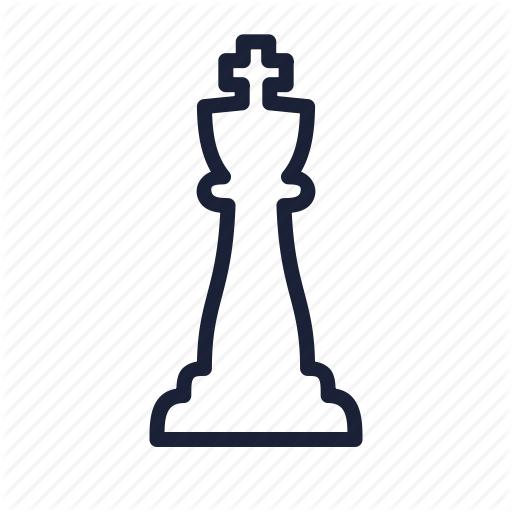
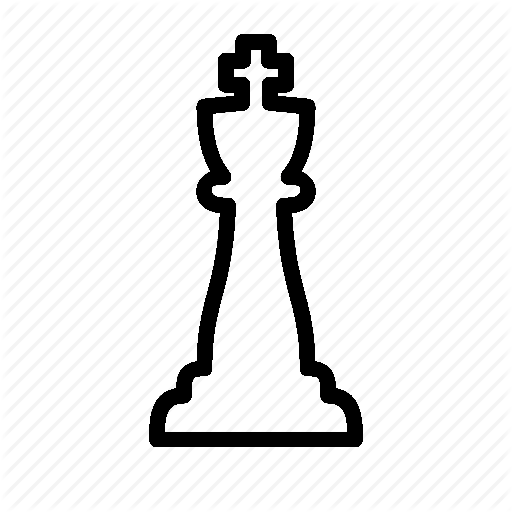
2nd Commit (from home)

Changed region(s): [[0.2812, 0.0625, 0.7188, 0.875]]

diff --git a/Graphical Chess/src/PlayChess.java b/Graphical Chess/src/PlayChess.java
@@ -1,12 +1,14 @@
 import java.awt.*;
-import java.awt.image.BufferedImage;
-import java.io.IOException;
-import java.net.URL;
-import java.io.File;
-import javax.imageio.ImageIO;
+
+//import java.awt.image.BufferedImage;
+//import java.io.IOException;
+//import java.net.URL;
+//import java.io.File;
+//import javax.imageio.ImageIO;
 import javax.swing.*;
-import java.util.Scanner;
-public class PlayChess extends Canvas
+//import java.util.Scanner;
+
+public class PlayChess extends JFrame
 	{
 		static int className;
 		static JFrame frame = new JFrame();
@@ -16,32 +18,42 @@ public class PlayChess extends Canvas
 		static int color2 = 1;
 		static String name1;
 		static String name2;
+		static boolean stillPlaying = true;
+		static ImageIcon king;
 
 		
 		public static void main(String[] args)
 			{
-				PlayChess canvas = new PlayChess();
+//				PlayChess canvas = new PlayChess();
 		        JFrame frame = new JFrame();
-		        ImageIcon king = new ImageIcon("King3.png");
-		        JLabel label = new JLabel(king);
-		        frame.add(label);
 		        frame.pack();
 		        frame.setSize(800, 800);
 		        frame.setDefaultCloseOperation(JFrame.EXIT_ON_CLOSE);
-		        frame.getContentPane().add(canvas).setBackground(Color.white);
-		        frame.setLocationRelativeTo(null); //Sets JPanel to center of screen 
+		        frame.setLayout(null);
+		        frame.getContentPane().setBackground(Color.YELLOW);
+		        frame.setLocationRelativeTo(null);; //Sets JPanel to center of screen 
 		        frame.setResizable(true);
 		        frame.setVisible(true);
 		        
-		        
-		        graphicallyGreetPlayer();
+		        showCurrentBoard();
+		        greetPlayer();
 		        ChessPieceDatabase.loadData();
+//		        while(stillPlaying)
+//		        {
+//		        	showCurrentBoard();
+//		        }
 			}
 
-		private static void graphicallyGreetPlayer()
+		private static void greetPlayer()
 			{
+				final JFrame frame = new JFrame();
+				JOptionPane.showMessageDialog(frame, "Welcome to the Game of Chess!!");
 				name1 = JOptionPane.showInputDialog("Player 1, what is your name?");
-				if(name1.length() == 1)
+				if(name1.isEmpty())
+				{
+					cancelGame();
+				}
+				else if(name1.length() == 1)
 					{
 						name1.substring(0).toUpperCase();
 					}
@@ -51,7 +63,11 @@ public class PlayChess extends Canvas
 					}
 				JOptionPane.showMessageDialog(frame, "Welcome to chess, " + name1 + "!");
 				name2 = JOptionPane.showInputDialog("Player 2, what is your name?");
-				if(name2.length() == 1)
+				if(name2.isEmpty())
+				{
+					cancelGame();
+				}
+				else if(name2.length() == 1)
 					{
 						name2.substring(0).toUpperCase();
 					}
@@ -61,18 +77,20 @@ public class PlayChess extends Canvas
 					}
 				JOptionPane.showMessageDialog(frame, "Welcome to chess, " + name2 + "!");
 				
-				final String[] colorOptions = {"Black", "White" };
-				final JFrame frame = new JFrame();
+				final String[] colorOptions = {"Black", "White", "Cancel"};
 			    String colorType = (String) JOptionPane.showInputDialog(
 			    		frame, 
-			            name1 + " , Which color chess pieces would you like to use?",
+			            name1 + ", which color chess pieces would you like to use?",
 			            "Which color?",
 			            JOptionPane.QUESTION_MESSAGE,
 			            null, 
 			            colorOptions, 
 			            colorOptions[0]);
-			    JOptionPane.showMessageDialog(frame, "Player 1, " + name1 + ", you will start first. Are you ready to play?");
-			    if(colorType.equals("White"))
+			    if(colorType.equals("Cancel"))
+			    {
+			    	cancelGame();
+			    }
+			    else if(colorType.equals("White"))
 			    	{
 			    		color1 = 0;
 			    		color2 = 1;
@@ -82,32 +100,41 @@ public class PlayChess extends Canvas
 			    		color1 = 1;
 			    		color2 = 0;
 			    	}
+			    if (JOptionPane.showConfirmDialog(frame, name1 + ", you will start first. Are you ready to play?", "Confirm", JOptionPane.YES_NO_OPTION) == JOptionPane.NO_OPTION)
+			    {
+			    	cancelGame();
+			    }
 			}
+		
+		public static void showCurrentBoard()
+		{
+			king = new ImageIcon(new ImageIcon("KingBW.png").getImage().getScaledInstance(80, 80, Image.SCALE_AREA_AVERAGING));
+			JLabel label = new JLabel(king);
+			frame.add(label);
+			Dimension size = label.getPreferredSize();
+			label.setBounds(100, 100, size.width, size.height);
+		}
 		
 		public void paint(Graphics graphics)
 		{
-			graphics.setColor(new Color(0,255,0));
-//			graphics
-	        ImageIcon king = new ImageIcon("King.png");
-	        
+			
 		}
 		
-		public BufferedImage scaleImage(int WIDTH, int HEIGHT, String filename)
+//		public static Image getScaledImage(Image srcImg, int w, int h)
+//		{
+//			BufferedImage resizedImg = new BufferedImage(w, h, BufferedImage.TYPE_INT_ARGB);
+//			Graphics2D g2 = resizedImg.createGraphics();
+//			
+//			g2.setRenderingHint(RenderingHints.KEY_INTERPOLATION, RenderingHints.VALUE_INTERPOLATION_BILINEAR);
+//			g2.drawImage(srcImg, 0, 0, w, h, null);
+//			g2.dispose();
+//			
+//			return resizedImg;
+//		}
+		
+		public static void cancelGame()
 		{
-			BufferedImage bi = null;
-			try
-				{
-					ImageIcon ii = new ImageIcon("King.png");
-					bi = new BufferedImage(25, 25, BufferedImage.TYPE_INT_RGB);
-					Graphics2D g2d = (Graphics2D) bi.createGraphics();
-					g2d.addRenderingHints(new RenderingHints(RenderingHints.KEY_RENDERING, RenderingHints.VALUE_RENDER_QUALITY));
-					g2d.drawImage(ii.getImage(), 0, 0, 25, 25, null);
-				}
-			catch (Exception e)
-				{
-					e.printStackTrace();
-					return null;
-				}
-			return bi;
+			JOptionPane.showMessageDialog(frame, "Sorry to see you leave, but thanks for playing while you could!");
+			System.exit(0);
 		}
 	}
